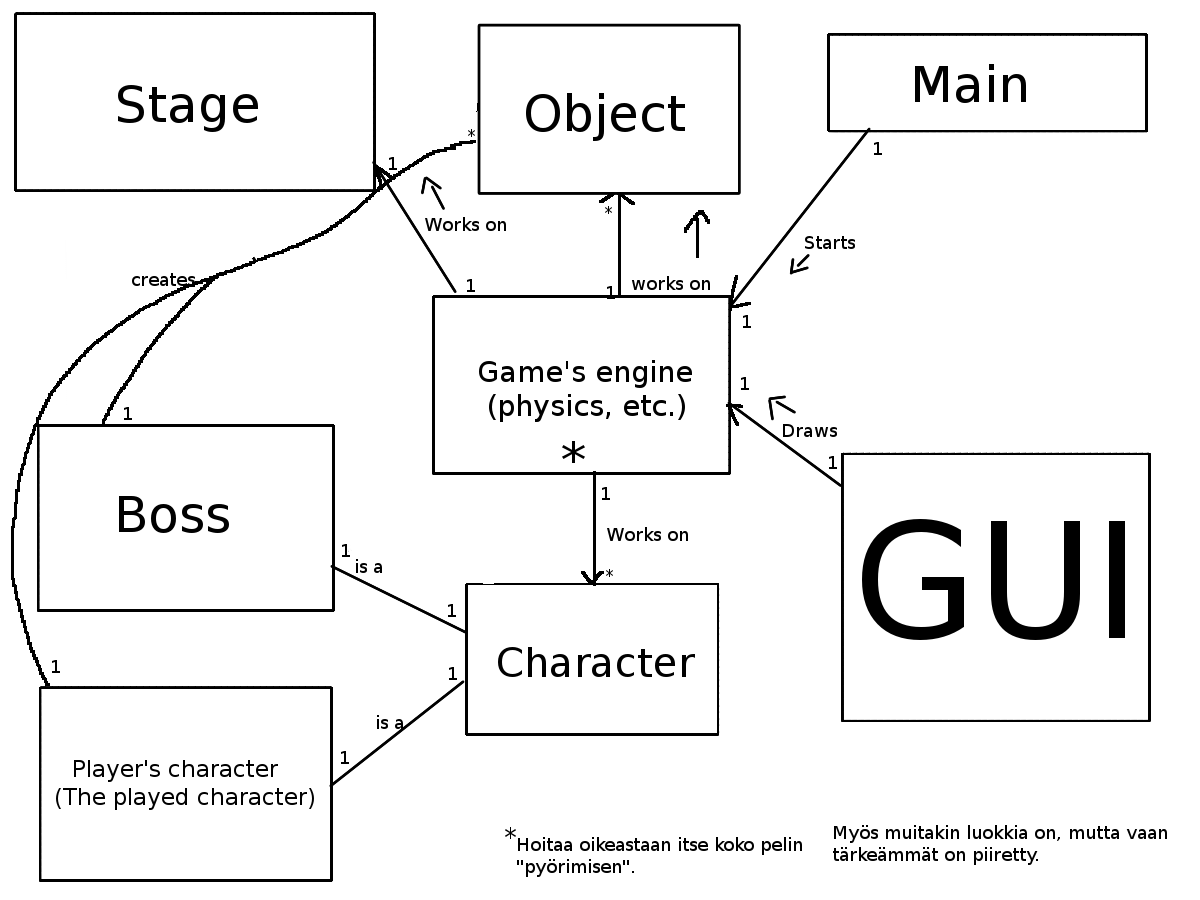
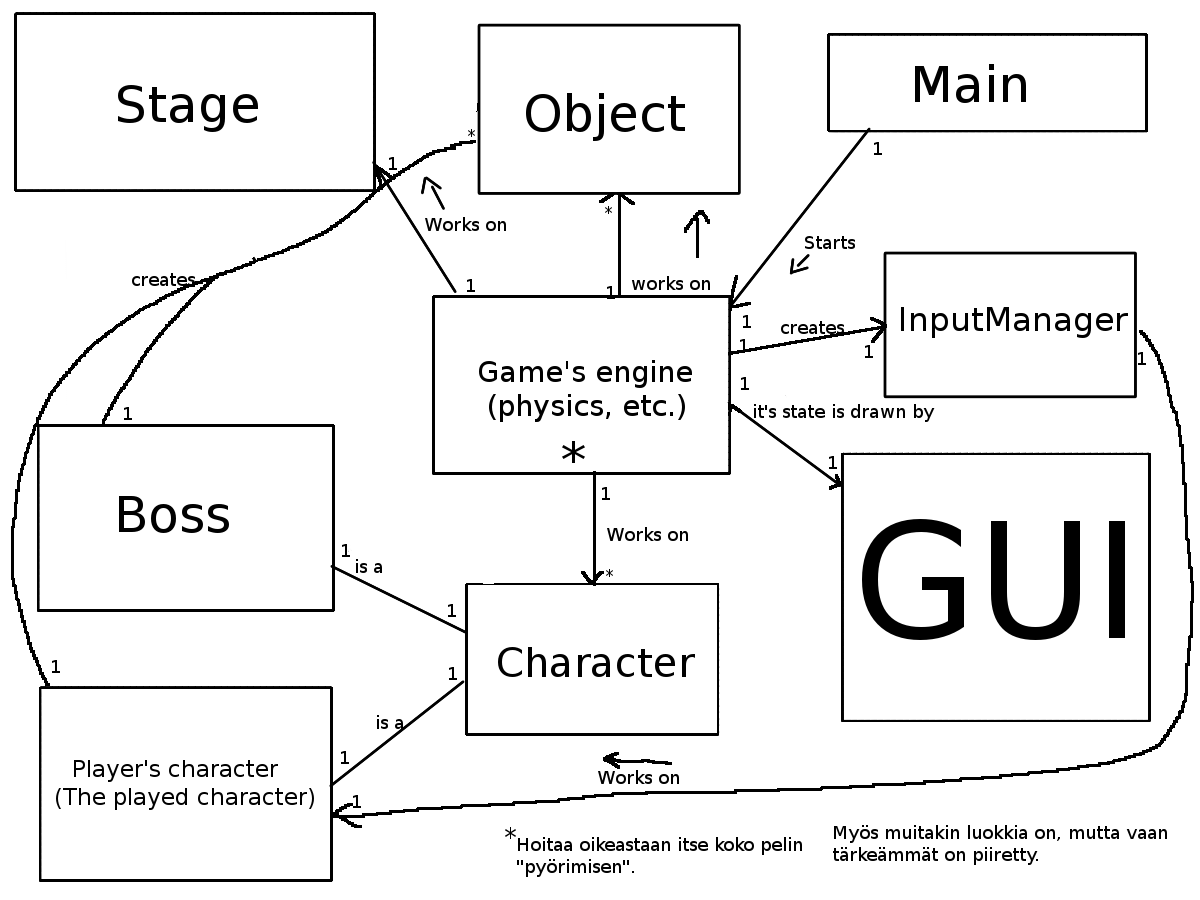
Luokkakaavion päivittäminen.

diff --git a/dokumentointi/tuntikirjanpito.md b/dokumentointi/tuntikirjanpito.md
@@ -20,7 +20,8 @@
 7.2.2015	20:45-21:00	0,25h	Hitusen logikkaa ja refraktorointia sekä testi.
 7.2.2015	21:15-21:30	0,25h	Guita + vähän muuta.
 11.2.2015	02:20-02:50	0,5h	Pitkälti pelkästään refraktorointia.
-11.22015	20:00-20:30	0,5h	Javadocia ja vähän koodia.
+11.2.2015	20:00-20:30	0,5h	Javadocia ja vähän koodia.
+12.2.2015	20:25-20:35	0,15h	Luokkakaavion päivittäminen.
 
 
 Ps. Tietosto ei gitissä näytä hyvältä suoraan.
